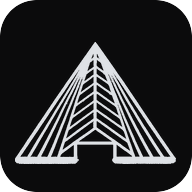
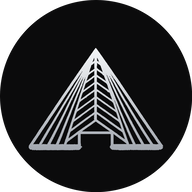
fix(icone): icône d'onglet en rond parfait, sans bord
La direction veut une icône d'onglet ronde, comme une photo de profil,
sans coins ni bord (23/11/2026). Rond noir lissé (dessiné huit fois plus
grand puis réduit), pyramide argentée en léger dégradé métallique, traits
épaissis à 16 et 32 pixels. Le fond noir reste nécessaire : le logo est
argenté et disparaîtrait sur la barre d'onglets claire de Safari.
Adresses en « ?v=2 » pour que Safari remplace l'icône carrée déjà en
cache. L'icône iPhone reste carrée : iOS arrondit lui-même ses coins.

diff --git a/src/app/layout.tsx b/src/app/layout.tsx
@@ -61,16 +61,18 @@ const baseMetadata: Metadata = {
     'uranium',
     'FCFA',
   ],
-  // Icônes refaites le 23/11/2026 depuis le logo officiel détouré : la
-  // pyramide remplit l'icône, traits épaissis aux petites tailles (16 et 32
-  // pixels) pour rester lisible dans un onglet. favicon.ico contient 16, 32
-  // et 48 pixels. Nouveaux noms de fichiers : Safari garde longtemps l'ancienne
-  // icône en cache si l'adresse ne change pas.
+  // Icône d'onglet (23/11/2026) : un rond noir parfait, sans bord, comme une
+  // photo de profil, avec la pyramide argentée du logo officiel. Le fond noir
+  // est indispensable : le logo est argenté, il disparaîtrait sur la barre
+  // d'onglets claire de Safari. Traits épaissis à 16 et 32 pixels pour rester
+  // lisibles. favicon.ico contient 16, 32 et 48 pixels. « ?v=2 » change
+  // l'adresse pour que Safari, qui garde longtemps ses icônes, prenne la
+  // nouvelle. L'icône iPhone reste carrée : iOS arrondit lui-même ses coins.
   icons: {
     icon: [
-      { url: '/favicon.ico', sizes: '16x16 32x32 48x48' },
-      { url: '/icone-32.png', sizes: '32x32', type: 'image/png' },
-      { url: '/icone-192.png', sizes: '192x192', type: 'image/png' },
+      { url: '/favicon.ico?v=2', sizes: '16x16 32x32 48x48' },
+      { url: '/icone-32.png?v=2', sizes: '32x32', type: 'image/png' },
+      { url: '/icone-192.png?v=2', sizes: '192x192', type: 'image/png' },
     ],
     apple: [{ url: '/apple-touch-icon.png', sizes: '180x180', type: 'image/png' }],
   },
